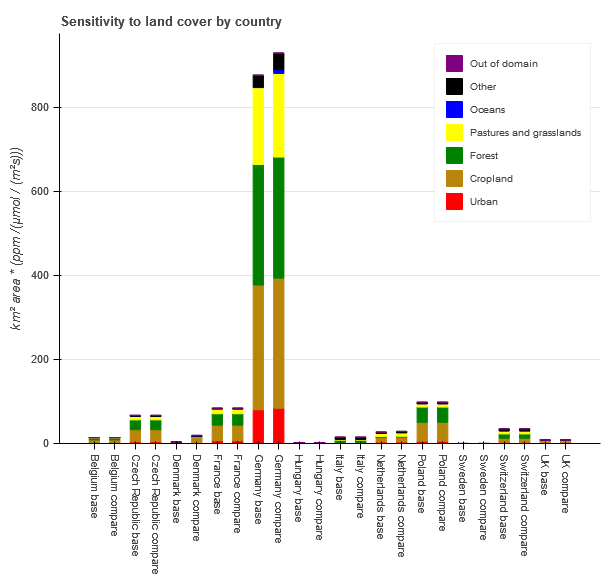
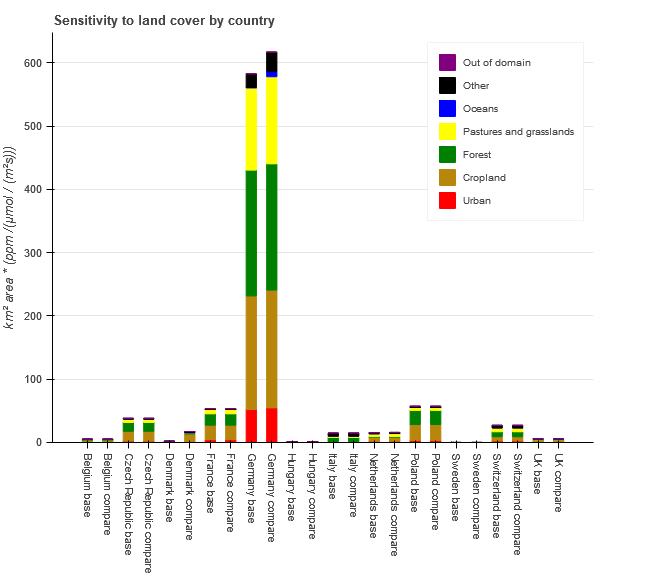
updated combined footprint for combination with land cover and population data

Changed region(s): [[0.0, 0.0625, 0.9802, 1.0], [0.6535, 0.0938, 0.9505, 0.375], [0.0891, 0.0312, 0.4752, 0.0625]]

diff --git a/notebooks/icos_jupyter_notebooks/network_characterization/network_characterization_functions.py b/notebooks/icos_jupyter_notebooks/network_characterization/network_characterization_functions.py
@@ -674,7 +674,9 @@ def aggreg_2018_footprints_base_network(sites_base_network, threshold):
     load_lat=loadtxt(os.path.join(folder_tool, folder_tool_fps, 'latitude.csv'), delimiter=',')
     load_lon=loadtxt(os.path.join(folder_tool, folder_tool_fps, 'longitude.csv'), delimiter=',')
     
+    df_max_base_network = pd.DataFrame()
     
+    index=1
     first=True
     for station in sites_base_network:
 
@@ -687,8 +689,7 @@ def aggreg_2018_footprints_base_network(sites_base_network, threshold):
      
         upd_fp_sens, upd_fp_see_not_see=update_footprint_based_on_threshold(loaded_fp, load_lat, load_lon, threshold)
         
-        #based on threshold - get
-        #footprint_show_percentages(station, loaded_fp, load_lat, load_lon)
+        df_max_base_network[('fp_' + str(index))]=upd_fp_sens.flatten()
 
         if first==True:
             #sensitivity values
@@ -703,16 +704,26 @@ def aggreg_2018_footprints_base_network(sites_base_network, threshold):
 
             #values 0 - x depending on how many stations "sees" each cell
             summed_fp_see_not_see=summed_fp_see_not_see+upd_fp_see_not_see
+            
+        #for new column values
+        index=index+1
+    
+    df_max_base_network = df_max_base_network[df_max_base_network.columns].max(axis=1)
+    
+    fp_max_base_network=np.array(df_max_base_network.tolist()).reshape((len(load_lat), len(load_lon)))
 
     aggreg_fp_see_not_see = one_or_zero_mask_x(summed_fp_see_not_see)
 
-    return summed_fp_sens, summed_fp_see_not_see, aggreg_fp_see_not_see, load_lon, load_lat
+    return summed_fp_sens, summed_fp_see_not_see, aggreg_fp_see_not_see, fp_max_base_network, load_lon, load_lat
 
 def aggreg_2018_footprints_compare_network(sites_base_network, list_additional_footprints, threshold):
     
     load_lat=loadtxt(os.path.join(folder_tool, folder_tool_fps, 'latitude.csv'), delimiter=',')
     load_lon=loadtxt(os.path.join(folder_tool, folder_tool_fps, 'longitude.csv'), delimiter=',')
     
+    df_max_compare_network = pd.DataFrame()
+    
+    index = 1
     first=True
     for station in sites_base_network:
 
@@ -723,6 +734,8 @@ def aggreg_2018_footprints_compare_network(sites_base_network, list_additional_f
         #based on threshold - get 
         upd_fp_sens, upd_fp_see_not_see=update_footprint_based_on_threshold(loaded_fp, load_lat, load_lon, threshold)
 
+        df_max_compare_network[('fp_' + str(index))]=upd_fp_sens.flatten()
+        
         if first==True:
             #sensitivity values
             summed_fp_sens=upd_fp_sens
@@ -736,6 +749,8 @@ def aggreg_2018_footprints_compare_network(sites_base_network, list_additional_f
 
             #values 0 - x depending on how many stations "sees" each cell
             summed_fp_see_not_see = summed_fp_see_not_see + upd_fp_see_not_see
+            
+        index = index+1
         
     aggreg_fp_see_not_see = one_or_zero_mask_x(summed_fp_see_not_see) 
     
@@ -757,14 +772,21 @@ def aggreg_2018_footprints_compare_network(sites_base_network, list_additional_f
         
         upd_fp_sens, upd_fp_see_not_see=update_footprint_based_on_threshold(loaded_fp, load_lat, load_lon, threshold)
         
+        df_max_compare_network[('fp_' + str(index))]=upd_fp_sens.flatten()
+        
         summed_fp_sens_additional = summed_fp_sens_additional + upd_fp_sens
         
         summed_fp_see_not_see_additional = summed_fp_see_not_see_additional + upd_fp_see_not_see
+        
+        index = index + 1
 
+    df_max_compare_network = df_max_compare_network[df_max_compare_network.columns].max(axis=1)
+
+    fp_max_compare_network=np.array(df_max_compare_network.tolist()).reshape((len(load_lat), len(load_lon)))
+    
     aggreg_fp_see_not_see_additional = one_or_zero_mask_x(summed_fp_see_not_see_additional) 
-
-
-    return summed_fp_sens_additional, summed_fp_see_not_see_additional, aggreg_fp_see_not_see_additional, load_lon, load_lat
+   
+    return summed_fp_sens_additional, summed_fp_see_not_see_additional, aggreg_fp_see_not_see_additional,fp_max_compare_network, load_lon, load_lat
     
 
 def import_landcover():
@@ -869,7 +891,7 @@ def import_population_data():
     fp_pop=pop_data.variables['2018'][:,:]
     return fp_pop
 
-
+#summed_fp_sens: now takes the max footprint (update 2021-07-30)
 def breakdown_landcover(list_area_choice, summed_fp_sens, aggreg_fp_see_not_see, breakdown_type = 'sens'):
     
     #import the necessary data
@@ -1072,7 +1094,7 @@ def breakdown_landcover(list_area_choice, summed_fp_sens, aggreg_fp_see_not_see,
                     
                     df_landcover_breakdown = df_landcover_breakdown.astype(float)
 
-                    df_landcover_breakdown = df_landcover_breakdown.round(1)
+                    df_landcover_breakdown = df_landcover_breakdown.round(0)
 
                     df_landcover_breakdown = df_landcover_breakdown.astype(int)
                     
@@ -1173,7 +1195,8 @@ def breakdown_landcover(list_area_choice, summed_fp_sens, aggreg_fp_see_not_see,
             show(p)
 
         display(population_by_country)
-    
+
+#summed_fp_sens and summed_fp_sens_uploaded footprint: now takes the max footprint (update 2021-07-30)
 def breakdown_landcover_compare_network(list_area_choice, summed_fp_sens, aggreg_fp_see_not_see, summed_fp_sens_uploaded_fp, aggreg_fp_see_not_see_uploaded_fp, breakdown_type='sens'):
     
     #import the necessary data

diff --git a/notebooks/icos_jupyter_notebooks/network_characterization/gui_network_characterization.py b/notebooks/icos_jupyter_notebooks/network_characterization/gui_network_characterization.py
@@ -126,7 +126,8 @@ def update_func(button_c):
 
     breakdown = breakdown_type.value
 
-    fp_combined_base_network, fp_mask_count_base_network, fp_mask_base_network, lon, lat = functions.aggreg_2018_footprints_base_network(sites_base_network, threshold_int)
+    #new --> fp_max_base_network
+    fp_combined_base_network, fp_mask_count_base_network, fp_mask_base_network, fp_max_base_network, lon, lat = functions.aggreg_2018_footprints_base_network(sites_base_network, threshold_int)
     
     
     if download_output:
@@ -139,7 +140,7 @@ def update_func(button_c):
 
     if len(sites_compare_network)>0:      
         
-        fp_combined_compare_network, fp_mask_count_compare_network, fp_mask_compare_network, lon, lat = functions.aggreg_2018_footprints_compare_network(sites_base_network, sites_compare_network, threshold_int)
+        fp_combined_compare_network, fp_mask_count_compare_network, fp_mask_compare_network, fp_max_compare_network, lon, lat = functions.aggreg_2018_footprints_compare_network(sites_base_network, sites_compare_network, threshold_int)
        
         vmax_see_not_see = np.max(fp_mask_count_compare_network)
         vmax_sens = np.max(fp_combined_compare_network)
@@ -247,9 +248,11 @@ def update_func(button_c):
 
         with breakdown_landcover_output:
            
-            functions.breakdown_landcover_compare_network(countries, fp_combined_base_network, fp_mask_base_network, fp_combined_compare_network, fp_mask_compare_network, breakdown)
-
+            #functions.breakdown_landcover_compare_network(countries, fp_combined_base_network, fp_mask_base_network, fp_combined_compare_network, fp_mask_compare_network, breakdown)
             
+            functions.breakdown_landcover_compare_network(countries, fp_max_base_network, fp_mask_base_network, fp_max_compare_network, fp_mask_compare_network, breakdown)
+            
+       
     else:
         with output_breakdown_countries:
             
@@ -266,8 +269,9 @@ def update_func(button_c):
 
 
         with breakdown_landcover_output:
-            
-            functions.breakdown_landcover(countries, fp_combined_base_network, fp_mask_base_network, breakdown)
+
+            #functions.breakdown_landcover(countries, fp_combined_base_network, fp_mask_base_network, breakdown)
+            functions.breakdown_landcover(countries, fp_max_base_network, fp_mask_base_network, breakdown)
             
     update_button.disabled = False
 #-----------widgets definition ----------------
